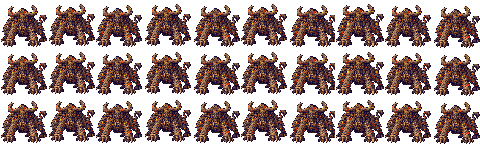
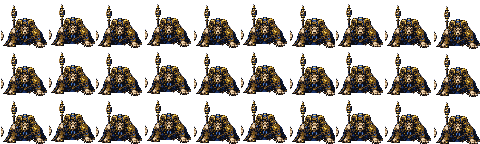
feat: give every boss a distinct combat identity

diff --git a/web/index.html b/web/index.html
@@ -1868,75 +1868,75 @@ const BOSS = [
     前一回合就看得到（telegraph）。後面十六隻頭目全部建立在
     「看預告、決定這一回合要不要站在那裡」上面 ——
     在一隻打不死人的門番身上先教會它，比在第十章教便宜太多。 */
- {id:'b_keeper', nm:'神殿門番',   ai:'C', hp:44,atk:4,def:2,exp:120, spd:.5, sight:6, ev:0, fl:[0,0], w:0, boss:1,
+ {id:'b_keeper', nm:'神殿門番', sig:'seal_slam', ai:'C', hp:44,atk:4,def:2,exp:120, spd:.5, sight:6, ev:0, fl:[0,0], w:0, boss:1, still:1,
   imm:['睡'], telegraph:1, cadence:4, ward:{cd:12, dur:2},
   line:'門上的浮雕動了 —— 它不追你，但它擋在唯一的路上。'},
- {id:'b_warden', nm:'礦坑守衛',   ai:'C', hp:70,atk:6,def:5,exp:200, spd:1,  sight:7, ev:0, fl:[0,0], w:0, boss:1,
+ {id:'b_warden', nm:'礦坑守衛', sig:'ore_brood', ai:'C', hp:70,atk:6,def:5,exp:200, spd:1,  sight:7, ev:0, fl:[0,0], w:0, boss:1,
   imm:['睡','亂'], adds:{n:1, cd:10}, ward:{cd:14, dur:3},
   line:'石頭在呼吸。它醒了 —— 而且不只一塊。'},
- {id:'b_treant', nm:'森之主',     ai:'C', hp:130,atk:11,def:8,exp:400, spd:.5, sight:6, ev:0, fl:[0,0], w:0, boss:1,
+ {id:'b_treant', nm:'森之主', sig:'root_quake', ai:'C', hp:130,atk:11,def:8,exp:400, spd:.5, sight:6, ev:0, fl:[0,0], w:0, boss:1,
   imm:['睡','亂','麻'], adds:{n:2, cd:8}, rage:.45, quake:9,
   line:'霧散開了 —— 那不是樹。而且林子裡不只牠一個。'},
  /* turret 型頭目：普通攻擊傷不了它，要用房間裡的砲座打。
     n=幾座　dmg=每一發打掉最大體力的幾成　cool=打完幾回合才能再用
     投石小魔王排在第三章，是刻意的 —— 這個機制要在玩家還很弱的時候教會，
     到了第十二章的光線人才會知道「原地站著換不到傷害」。 */
- {id:'b_ballista',nm:'投石小魔王',ai:'R', hp:170,atk:12,def:10,exp:600, spd:1,  sight:12,ev:0, fl:[0,0], w:0, boss:1,
+ {id:'b_ballista',nm:'投石小魔王',sig:'stone_battery',ai:'R', hp:170,atk:12,def:10,exp:600, spd:1,  sight:12,ev:0, fl:[0,0], w:0, boss:1,
   rng:9, still:1, telegraph:1, turret:{n:3, dmg:.18, cool:5}, rage:.4, adds:{n:2, cd:10},
   line:'白色的方塊亮起來了 —— 那是射程。石頭傷不了它，但山道上的投石機可以。'},
- {id:'b_pyro',   nm:'火之術士',   ai:'R', hp:190,atk:13,def:11,exp:800, spd:1,  sight:12,ev:6, fl:[0,0], w:0, boss:1,
+ {id:'b_pyro',   nm:'火之術士', sig:'flame_cross', ai:'R', hp:190,atk:13,def:11,exp:800, spd:1,  sight:12,ev:6, fl:[0,0], w:0, boss:1,
   rng:10, cadence:3, telegraph:1, quake:7, adds:{n:2, cd:11, id:'imp'}, rage:.35,
   line:'三回合一次。柱子後面是唯一的答案 —— 但別站在牠腳邊。'},
- {id:'b_lord',   nm:'湖水之主',   ai:'C', hp:210,atk:16,def:12,exp:900, spd:1,  sight:8, ev:4, fl:[0,0], w:0, boss:1,
+ {id:'b_lord',   nm:'湖水之主', sig:'tidal_ram', ai:'C', hp:210,atk:16,def:12,exp:900, spd:1,  sight:8, ev:4, fl:[0,0], w:0, boss:1,
   telegraph:1, cadence:4, charge:1, blink:[9,14], ward:{cd:12, dur:4},
   line:'湖面立起來了 —— 水不會繞路，它直接撞過來。'},
- {id:'b_phoenix', lives:1,nm:'不死鳥',     ai:'C', hp:260,atk:20,def:14,exp:1200,spd:1.5,sight:9, ev:10,fl:[0,0], w:0, boss:1, fly:1,
+ {id:'b_phoenix', lives:1,nm:'不死鳥', sig:'rebirth_nova', ai:'C', hp:260,atk:20,def:14,exp:1200,spd:1.5,sight:9, ev:10,fl:[0,0], w:0, boss:1, fly:1,
   rage:.5, quake:8, ward:{cd:13, dur:3},
   line:'牠燒起來的時候，是在重生 —— 而且會燒到站得太近的人。'},
- {id:'b_hanzo',  nm:'全藏',       ai:'C', hp:290,atk:24,def:15,exp:1500,spd:2,  sight:9, ev:22,fl:[0,0], w:0, boss:1,
+ {id:'b_hanzo',  nm:'全藏', sig:'shadow_swap', ai:'C', hp:290,atk:24,def:15,exp:1500,spd:2,  sight:9, ev:22,fl:[0,0], w:0, boss:1,
   blink:[3,6], rage:.35, adds:{n:1, cd:13},
   /* 本來叫的是影忍 —— 而影忍挨打會分身，於是牠每十三回合叫兩隻、
      兩隻各自再分裂，走通測試在這一章直接卡住四十次。
      召喚要挑「不會自我繁殖」的東西，這是叫援軍這個動詞的隱藏規格。 */
   line:'「看得見我，就贏得了我。」—— 問題是他不會待在同一個地方。'},
- {id:'b_oni',    nm:'鬼武者',     ai:'C', hp:330,atk:26,def:16,exp:1800,spd:1,  sight:8, ev:0, fl:[0,0], w:0, boss:1,
+ {id:'b_oni',    nm:'鬼武者', sig:'iaido_counter', ai:'C', hp:330,atk:26,def:16,exp:1800,spd:1,  sight:8, ev:0, fl:[0,0], w:0, boss:1,
   counter:.35, telegraph:1, cadence:5, charge:1, rage:.4, quake:9,
   line:'牠拔刀的速度比你眨眼快 —— 而且牠會連人帶刀衝過來。'},
- {id:'b_gaoler', nm:'牢獄長',     ai:'C', hp:420,atk:30,def:18,exp:2400,spd:1,  sight:9, ev:0, fl:[0,0], w:0, boss:1,
+ {id:'b_gaoler', nm:'牢獄長', sig:'chain_muster', ai:'C', hp:420,atk:30,def:18,exp:2400,spd:1,  sight:9, ev:0, fl:[0,0], w:0, boss:1,
   imm:['睡','亂','麻'], adds:{n:2, cd:9}, rage:.4, ward:{cd:14, dur:4},
   line:'鑰匙掛在牠腰上 —— 但牠不是一個人在看守。'},
  /* 鏡之女王：整章的規則就是「鏡子」—— 她不走路，她換一面鏡子出現。
     停十到十五回合，然後閃到房間裡的另一個位置；停著的時候固定週期
     預告一條直線再射出去。玩家因此永遠有兩件事要決定：
     這一回合是躲線還是吃傷害往前壓，以及她下次會出現在哪一邊。 */
- {id:'b_queen', lives:2,  nm:'鏡之女王',   ai:'R', hp:200,atk:32,def:18,exp:2600,spd:1,  sight:9, ev:12,fl:[0,0], w:0, boss:1, fly:1,
+ {id:'b_queen', lives:2, nm:'鏡之女王', sig:'mirror_trinity', ai:'R', hp:200,atk:32,def:18,exp:2600,spd:1,  sight:9, ev:12,fl:[0,0], w:0, boss:1, fly:1,
   rng:10, telegraph:1, cadence:2, blink:[4,7], charge:1, unreflect:1, mpburn:12,
   line:'打碎一次，她會再站起來。三次。鏡子裡的東西不會走過來。'},
- {id:'b_prism',  nm:'光線人',     ai:'R', hp:380,atk:34,def:20,exp:3000,spd:1,  sight:14,ev:0, fl:[0,0], w:0, boss:1, fly:1,
+ {id:'b_prism',  nm:'光線人', sig:'prism_battery', ai:'R', hp:380,atk:34,def:20,exp:3000,spd:1,  sight:14,ev:0, fl:[0,0], w:0, boss:1, fly:1,
   rng:12, telegraph:1, cadence:2, turret:{n:4, dmg:.15, cool:6}, rage:.4, adds:{n:2, cd:12, id:'turret'},
   line:'光走直線 —— 所以不要站在直線上。它自己也是光，刀砍不斷光。'},
  /* 副本迷宮的守衛。石匠把自己最後的作品鎖在裡面，順手做了一個看門的。
     它是**解謎型**（刀砍不動，只有砲座打得動）—— 副本的獎勵是全遊戲
     最強的一把劍與一面盾，所以它不能是「數值夠高就打得贏」，
     得是「看懂機關才過得去」。深度 66，數值排在牢獄長與光線人之間。 */
- {id:'b_artisan',nm:'祕匠的守衛', ai:'R', hp:400,atk:32,def:19,exp:3000,spd:1, sight:13,ev:0, fl:[0,0], w:0, boss:1,
+ {id:'b_artisan',nm:'祕匠的守衛', sig:'gear_lock', ai:'R', hp:400,atk:32,def:19,exp:3000,spd:1, sight:13,ev:0, fl:[0,0], w:0, boss:1,
   rng:11, still:1, telegraph:1, cadence:3, turret:{n:4, dmg:.17, cool:5},
-  rage:.4, adds:{n:2, cd:11}, imm:['睡','亂','麻'],
+  rage:.4, adds:{n:2, cd:11}, gearlock:{cd:6,dur:3}, imm:['睡','亂','麻'],
   line:'它不是活的 —— 是石匠留下來的機關。刀砍不斷齒輪，砲座可以。'},
  /* 大廣間的小王。使用者的剖面圖寫的是「橫向打敗小王，找到向上前往
     通天塔入口」—— 所以這一場是**橫著打**的：它會助跑撞過來（charge），
     而大廣間有的是橫向的空間可以閃。它是整趟往下的最後一戰，
     數值排在光線人（第 13 章）與人魚王后（第 15 章）之間。 */
- {id:'b_hallking',nm:'廣間之王',  ai:'C', hp:450,atk:37,def:21,exp:3500,spd:1,  sight:11,ev:4, fl:[0,0], w:0, boss:1,
+ {id:'b_hallking',nm:'廣間之王', sig:'royal_charge', ai:'C', hp:450,atk:37,def:21,exp:3500,spd:1,  sight:11,ev:4, fl:[0,0], w:0, boss:1,
   imm:['睡','麻'], charge:1, telegraph:1, cadence:4, quake:8, rage:.4, adds:{n:2, cd:11},
   line:'牠坐在廣間的正中央 —— 背後那道光，就是你要去的地方。'},
  /* 人魚王后保留 diva 詠嘆調。她的機制是 mpburn（唱到你忘記咒文），
     而那件事只有在**聽得到她唱**的時候才成立；她不跟其他施術型頭目共曲。 */
- {id:'b_mermaid',nm:'人魚王后',   ai:'R', hp:520,atk:40,def:22,exp:4000,spd:1,  sight:12,ev:8, fl:[0,0], w:0, boss:1,
+ {id:'b_mermaid',nm:'人魚王后', sig:'siren_lament', ai:'R', hp:520,atk:40,def:22,exp:4000,spd:1,  sight:12,ev:8, fl:[0,0], w:0, boss:1,
   rng:9, mpburn:12, quake:8, telegraph:1, cadence:3, ward:{cd:13, dur:4}, adds:{n:2, cd:12},
   bgm:'diva',
   line:'塔頂的歌聲 —— 聽久了，連咒文都會忘記。'},
- {id:'b_gate',   nm:'門之守望',   ai:'C', hp:600,atk:44,def:24,exp:5000,spd:1,  sight:10,ev:0, fl:[0,0], w:0, boss:1,
+ {id:'b_gate',   nm:'門之守望', sig:'portal_crush', ai:'C', hp:600,atk:44,def:24,exp:5000,spd:1,  sight:10,ev:0, fl:[0,0], w:0, boss:1,
   imm:['睡','亂','麻'], quake:6, rage:.35, adds:{n:2, cd:12}, ward:{cd:12, dur:4}, charge:1, telegraph:1, cadence:5,
   line:'最後一道門 —— 它不需要移動，你自己會走過來。'},
 
@@ -1944,13 +1944,13 @@ const BOSS = [
     設計原則：每一型態只考一件事，而且每一件事都有明確的正解。
     難度來自「要同時記得三件事」，不是來自數值。
     型態之間各補滿一次體力與魔力 —— 最終戰卡在補給不足上不有趣。 */
- {id:'b_mind1', mul:{hp:.7, atk:.9, def:.35},  nm:'意識・凝視', ai:'R', hp:300,atk:30,def:8, exp:2000,spd:1,  sight:99,ev:0, fl:[0,0], w:0, boss:1, fly:1,
+ {id:'b_mind1', mul:{hp:.7, atk:.9, def:.35}, nm:'意識・凝視', sig:'gaze_line', ai:'R', hp:300,atk:30,def:8, exp:2000,spd:1,  sight:99,ev:0, fl:[0,0], w:0, boss:1, fly:1,
   mind:1, rng:99, cadence:3, telegraph:1, still:1, imm:['睡','亂','麻'],
   line:'它還沒有形體。只有一隻眼睛，正在看你。'},
- {id:'b_mind2', mul:{hp:.8, atk:1.0, def:.8},  nm:'意識・複寫', ai:'C', hp:340,atk:34,def:14,exp:2600,spd:1,  sight:99,ev:0, fl:[0,0], w:0, boss:1,
+ {id:'b_mind2', mul:{hp:.8, atk:1.0, def:.8}, nm:'意識・複寫', sig:'mimic_echo', ai:'C', hp:340,atk:34,def:14,exp:2600,spd:1,  sight:99,ev:0, fl:[0,0], w:0, boss:1,
   mind:2, imm:['睡','亂','麻'],
   line:'三個你。只有一個不會跟著你動。'},
- {id:'b_mind', mul:{hp:1.3, atk:1.2, def:1.6},   nm:'意識・歸一', ai:'C', hp:520,atk:40,def:26,exp:9999,spd:1,  sight:99,ev:0, fl:[0,0], w:0, boss:1,
+ {id:'b_mind', mul:{hp:1.3, atk:1.2, def:1.6}, nm:'意識・歸一', sig:'collapse_opening', ai:'C', hp:520,atk:40,def:26,exp:9999,spd:1,  sight:99,ev:0, fl:[0,0], w:0, boss:1,
   mind:3, opening:1, imm:['睡','亂','麻'],
  line:'它終於站起來了。每揮一次刀，它都會露出破綻。'},
 ];
@@ -2604,6 +2604,7 @@ s.rage|{v0} roars — it is serious now.|{v0} が ほえた —— ほんきに 
 s.ward|{v0} raises a ward — nothing can hurt it for {n} turns.|{v0} が ひかりの まくを はった —— {n}ターン むきず。
 s.warded|{v0} is wrapped in light — it cannot be hurt right now.|{v0} は ひかりに つつまれている —— いまは きずつけられない。
 s.adds|{v0} calls in {n} helpers.|{v0} が なかまを {n} たい よんだ。
+s.gearlock|The artisan's blue gear beam seizes a ballista — move to another firing point!|しょくにんの あおい はぐるまこうせんが とうせきだいを ふうじた —— べつの だいへ！
 s.quakew|The ground under {v0} starts to shake — get away from it!|{v0} の あしもとが ゆれはじめた —— はなれろ！
 s.quake|The ground bursts — you are thrown back for {n} damage.|じめんが はじけた —— ふきとばされて {n} ダメージ。
 s.quakemiss|The ground shakes — you are far enough away.|じめんが ゆれた —— じゅうぶん はなれていた。
@@ -3570,6 +3571,11 @@ const ART_DIR = 'art/';
    留這個鉤子，就能同時擁有兩種形態：
    網站上一張一張載（方便一批一批換），要散佈時打包成一個檔。 */
 let ART_DATA = null;
+/* 外部美術的快取版本。GitHub Pages／手機瀏覽器會保留同名 PNG；若只替換
+   圖檔而 URL 不變，玩家可能幾天都還看見舊頭目。每次正式換一批美術只需
+   改這一個值，所有逐張載入的圖與動畫就會取得同一版。ART_DATA 是內嵌
+   data URL，不需要也不能附 query。 */
+const ART_REV = '20260823-babylon-boss-v2';
 const ART_MON = ['rat', 'slime', 'goblin', 'skeleton',
                  'shroom', 'imp', 'grub', 'wolf', 'mage', 'golem',
                  'turret', 'knight', 'wasp', 'dryad', 'mossy', 'moth',
@@ -3583,8 +3589,9 @@ const ART_MON = ['rat', 'slime', 'goblin', 'skeleton',
 const ART_BOSS = ['b_warden', 'b_treant', 'b_ballista', 'b_pyro', 'b_lord',
                   'b_phoenix', 'b_hanzo', 'b_oni', 'b_gaoler', 'b_queen',
                   'b_prism', 'b_mermaid', 'b_gate', 'b_mind1', 'b_mind',
-                  'b_keeper', 'b_artisan', 'b_hallking', 'b_mind2'];
+                  'b_keeper', 'b_artisan', 'b_hallking'];
 const ownArt = {};
+let qaGalleryRedrawT = 0;
 /* 載一張外部圖，成功了才呼叫 ok(canvas)。載不到什麼都不做 ——
    「還沒畫到」不是錯誤，是這條遷移管線的正常狀態。
 
@@ -3603,7 +3610,8 @@ function artImage(id, url, ok){
     ok(c);
   };
   im.onerror = () => {};                       // 還沒畫到 —— 不是錯誤
-  im.src = (ART_DATA && ART_DATA[id]) || url;
+  const embedded = ART_DATA && ART_DATA[id];
+  im.src = embedded || (url + (url.includes('?') ? '&' : '?') + 'v=' + ART_REV);
 }
 
 /* ─── 可選的逐格動畫圖集 ──────────────────────────────────────
@@ -3630,7 +3638,7 @@ const ART_ANIM_AVAILABLE = {
     'b_warden','b_treant','b_ballista','b_pyro','b_lord',
     'b_phoenix','b_hanzo','b_oni','b_gaoler','b_queen',
     'b_prism','b_mermaid','b_gate','b_mind1','b_mind',
-    'b_keeper','b_artisan','b_hallking','b_mind2'
+    'b_keeper','b_artisan','b_hallking'
   ]
 };
 const ANIM_ART = {}, animLoadTried = new Set(), animCellCache = {};
@@ -3704,6 +3712,16 @@ function adoptArt(id, url, own){
     for(const b in BOSS_BASE) if(BOSS_BASE[b] === id && !ownArt[b]){
       delete flashCache[b]; delete charLiftCache[b]; delete footCache[b];
       atlas[b] = crownSprite(id);
+    }
+    /* 驗收畫廊把 atlas 拷進自己的 canvas；如果外部 PNG 比畫廊晚載完，
+       不重畫就會一直顯示載入前的程式造型，讓人誤以為新美術沒有套上。 */
+    if(typeof location !== 'undefined' &&
+       new URLSearchParams(location.search).get('qa') === 'gallery'){
+      clearTimeout(qaGalleryRedrawT);
+      qaGalleryRedrawT = setTimeout(() => {
+        const tp = new URLSearchParams(location.search).get('type') === 'boss' ? 'boss' : 'mon';
+        qaGallery(tp);
+      }, 80);
     }
   });
 }
@@ -9636,6 +9654,15 @@ function decide(m){
             {v0:(locName('mon', m.d)), n:m.ward}),'bad');
     }
   }
+  /* 祕匠守衛的專屬招：封住一座目前能用的砲座，逼玩家真的在四座機關間
+     換位，而不是找到最近的一座原地連按。只有它會改變場上砲座的狀態。 */
+  if(m.d.gearlock && G.seen[key(m.x,m.y)] === 2 && G.f.turrets){
+    m.gearCd = (m.gearCd === undefined) ? m.d.gearlock.cd : m.gearCd - 1;
+    if(m.gearCd <= 0 && G.f.turrets.some(t=>!t.cd)){
+      m.gearCd = m.d.gearlock.cd;
+      return {k:'gearlock'};
+    }
+  }
   if(m.d.adds && G.seen[key(m.x,m.y)] === 2){
     m.addCd = (m.addCd === undefined) ? m.d.adds.cd : m.addCd - 1;
     if(m.addCd <= 0 && G.mons.length < 12){ m.addCd = m.d.adds.cd; return {k:'adds'}; }
@@ -10088,6 +10115,20 @@ function act(m,it){
       SFX.play('read');
       say(M('s.adds','{v0} 叫來了 {n} 個幫手。',{v0:(locName('mon', m.d)), n:born}),'bad');
     }
+    return;
+  }
+  if(it.k==='gearlock'){
+    const ready=(G.f.turrets||[]).filter(t=>!t.cd);
+    if(!ready.length) return;
+    // 優先鎖離玩家最近的那座：玩家剛跑到的機關最可能被盯上，規則才讀得出來。
+    ready.sort((a,b)=>Math.max(Math.abs(a.x-p.x),Math.abs(a.y-p.y))-
+                       Math.max(Math.abs(b.x-p.x),Math.abs(b.y-p.y)));
+    const t=ready[0]; t.cd=Math.max(t.cd||0,m.d.gearlock.dur);
+    wave(t.x,t.y,'#4a86cf',.72); ring(t.x,t.y,'#7cb8ea',30,.50);
+    trail(m.x,m.y,Math.sign(t.x-m.x),Math.sign(t.y-m.y),
+          Math.max(Math.abs(t.x-m.x),Math.abs(t.y-m.y)),'#7cb8ea');
+    SFX.play('curse');
+    say(TX('s.gearlock','祕匠的藍色齒輪光束鎖住了一座砲台 —— 換到另一座！'),'bad');
     return;
   }
   if(it.k==='quake'){

diff --git a/web/items.js b/web/items.js
@@ -682,7 +682,7 @@ t('打倒頭目一定掉一件裝備，而且不會超出這一層的分級', ()
    無條件去讀 blink[0]，一衝出去就整場當掉（msgs.js 抓到的）。 */
 t('每一章的頭目各有自己的招，而且每一隻都跑得起來', ()=>{
   const VERBS = ['telegraph','blink','charge','mpburn','quake','adds','rage',
-                 'ward','counter','lives','turret','mind'];
+                 'ward','counter','lives','turret','gearlock','mind'];
   const thin = [];
   for(const d of api.BOSS){
     const has = VERBS.filter(v => d[v]);
@@ -694,6 +694,23 @@ t('每一章的頭目各有自己的招，而且每一隻都跑得起來', ()=>{
   const used = new Set();
   for(const d of api.BOSS) for(const v of VERBS) if(d[v]) used.add(v);
   assert(used.size >= 8, '整套只用到 ' + used.size + ' 種招：' + [...used].join('/'));
+
+  // 名稱不算獨特，玩家實際需要的應對組合才算。adds 會召什麼、mind 是哪一型
+  // 都寫進指紋；兩隻王若指紋相同，就代表只是換血量與外觀，直接判失敗。
+  const kits = new Map();
+  for(const d of api.BOSS){
+    assert(d.sig, d.nm + ' 沒有專屬招式名稱');
+    const moves = VERBS.filter(v=>d[v]).map(v=>{
+      if(v==='mind') return 'mind:' + d.mind;
+      if(v==='adds') return 'adds:' + (d.adds.id || 'roster');
+      return v;
+    }).sort();
+    const fp=moves.join('/');
+    if(kits.has(fp)) throw new Error(d.nm + ' 與 ' + kits.get(fp) + ' 的應對方法完全相同：' + fp);
+    kits.set(fp,d.nm);
+  }
+  assert.strictEqual(new Set(api.BOSS.map(d=>d.sig)).size, api.BOSS.length,
+    '專屬招式名稱有重複');
 
   // 每一隻實際跑三十回合，確認不會爆
   for(let a = 0; a < api.ACTS.length; a++){

diff --git a/web/opening.js b/web/opening.js
@@ -22,7 +22,7 @@ function pngSize(file){
 const bossIds = [
   'b_keeper','b_warden','b_treant','b_ballista','b_pyro','b_lord',
   'b_phoenix','b_hanzo','b_oni','b_gaoler','b_queen','b_prism',
-  'b_artisan','b_hallking','b_mermaid','b_gate','b_mind1','b_mind2','b_mind'
+  'b_artisan','b_hallking','b_mermaid','b_gate','b_mind1','b_mind'
 ];
 
 ok(/TRACKS\.title\s*=\s*T_\(\{\s*bpm:112/.test(html), 'original title theme is registered at 112 BPM');
@@ -53,5 +53,9 @@ for(const id of bossIds){
   ok(b.width === 480 && b.height === 144, `${id} animation sheet is 10x3 cells`);
   ok(html.includes(`'${id}'`), `${id} is registered in the runtime`);
 }
+
+ok(/m\.d\.mind\s*===\s*2\s*\?\s*heroAnimNow/.test(html), 'Mind Echo reuses the current animated hero by design');
+ok(!fs.existsSync(path.join(ROOT, 'art', 'boss', 'b_mind2.png')), 'Mind Echo has no dedicated still that could break the mimic puzzle');
+ok(!fs.existsSync(path.join(ROOT, 'art', 'anim', 'boss', 'b_mind2.png')), 'Mind Echo has no dedicated animation that could break the mimic puzzle');
 
 console.log(`\nOpening/boss release checks: ${pass} passed, 0 failed.`);

diff --git a/tools/check_art.py b/tools/check_art.py
@@ -258,6 +258,7 @@ else:
             parts = rel.replace("\\", "/").split("/")
             is_anim = parts[0] == "anim"
             cat = parts[1] if is_anim and len(parts) > 1 else parts[0]
+            is_scene = cat in ("promo", "village", "map")
             im = Image.open(os.path.join(dirpath, name)).convert("RGBA")
             px = list(im.getdata())
             cols = {p[:3] for p in px if p[3] > 0}
@@ -285,8 +286,15 @@ else:
             # 用怪物的下限去要求，只會逼出一頂佔滿整格、把臉蓋掉的帽子。
             lo = (0.06 if cat in ("item", "hat", "weapon", "shield")
                   else 0.10 if is_anim else 0.15)
-            ok(lo <= frac <= 0.92,
-               "%s 剪影佔比合理（%.0f%%，下限 %.0f%%）" % (rel, frac * 100, lo * 100))
+            if is_scene:
+                # Full-frame village paintings, posters and journey maps are not
+                # sprites. Their job is to fill the canvas; treating that as an
+                # unremoved background made every deliberate panorama fail.
+                ok(frac >= 0.92,
+                   "%s 全景覆蓋畫面（%.0f%%，下限 92%%）" % (rel, frac * 100))
+            else:
+                ok(lo <= frac <= 0.92,
+                   "%s 剪影佔比合理（%.0f%%，下限 %.0f%%）" % (rel, frac * 100, lo * 100))
             # 主體必須碰到方框的最底下那一列。
             #
             # 轉檔工具如果把主體在方框裡上下置中，趴著的洞穴鼠就會在

diff --git a/tools/pixelize.py b/tools/pixelize.py
@@ -94,6 +94,11 @@ def palette_hex_for(rel):
     parts = rel.replace("\\", "/").split("/")
     # 動畫圖集多包一層 anim/<類別>/；主角身體仍只能使用可換色的五色。
     cat = parts[1] if len(parts) > 1 and parts[0] == "anim" else parts[0]
+    # Bosses use the same expanded material palette in stills and animation.
+    # Their 48px silhouettes are allowed 8–14 colors, including purple magic,
+    # pale metal and cyan crystal that the 32-color minion palette cannot hold.
+    if cat == "boss":
+        return ANIM_PALETTE_HEX
     if parts[0] == "anim" and cat != "hero":
         return ANIM_PALETTE_HEX
     return PALETTES.get(cat, PALETTE_HEX)

diff --git a/docs/boss_combat_roster.md b/docs/boss_combat_roster.md
@@ -1,0 +1,27 @@
+# 頭目專屬攻擊與特技表
+
+這份表是頭目戰的不可退化規格。所有頭目共用「深層頭目每第四次近戰會預告重擊並震飛」的基礎語彙；表內列的是每隻額外擁有、且彼此不重複的戰鬥組合。
+
+| 頭目 | 專屬招式 | 實際戰鬥機制 | 玩家應對 |
+|---|---|---|---|
+| 神殿門番 | 封印砸擊 `seal_slam` | 鎮守原地、四拍預告直線攻擊、受傷後短暫開盾 | 看預告離線；護罩期間換位或回復 |
+| 礦坑守衛 | 礦脈孳生 `ore_brood` | 定期喚醒一隻礦怪並開石光護罩 | 先清援軍，護罩消失再集中攻擊 |
+| 森之主 | 根脈地震 `root_quake` | 召喚兩隻林怪、近身震地、低血狂暴 | 離開三格震區，避免被樹群包圍 |
+| 投石小魔王 | 岩彈陣地 `stone_battery` | 刀砍無效；三座投石台輪流輸出，並召喚援軍 | 在三座砲台間換位，不可原地硬砍 |
+| 火之術士 | 炎十字 `flame_cross` | 三回合預告直線火術、震地並召喚投石妖精 | 以柱子斷線，且不可貼身久留 |
+| 湖水之主 | 潮汐衝城 `tidal_ram` | 預告後沿直線衝撞、把人推向牆，並會換水面位置 | 側移離線，不要背貼牆 |
+| 不死鳥 | 涅槃火環 `rebirth_nova` | 死後重生一次；低血狂暴、近身爆焰震地與火罩 | 保留資源打第二條命，爆焰前拉開 |
+| 全藏 | 影換 `shadow_swap` | 高速瞬身、召喚影援軍、低血狂暴 | 記住本體落點，先消掉干擾者 |
+| 鬼武者 | 居合返 `iaido_counter` | 受擊反擊、預告居合衝撞、震地與狂暴 | 不連續貪刀；看刀光側移 |
+| 牢獄長 | 鎖鏈點兵 `chain_muster` | 定期召兩名獄卒、狂暴並張開重甲護罩 | 控制援軍數量，護罩期整理站位 |
+| 鏡之女王 | 三鏡輪迴 `mirror_trinity` | 三條命、鏡間瞬移、衝撞、遠程不可反射並撕走一半 MP | 預判鏡位、離開射線，分段保存 MP |
+| 光線人 | 稜鏡砲列 `prism_battery` | 刀砍無效；四砲座解謎、兩拍光線並召喚水晶砲台 | 用掩體斷光，輪轉四座砲台 |
+| 祕匠的守衛 | 齒輪封砲 `gear_lock` | 刀砍無效；藍色齒輪光束會鎖住離玩家最近的可用砲台 | 在四座砲台間持續轉移，不能守一座連按 |
+| 廣間之王 | 王獸橫衝 `royal_charge` | 長距離衝撞、震地、召喚援軍與低血狂暴 | 利用廣間橫向空間側移，離開震區 |
+| 人魚王后 | 海妖哀歌 `siren_lament` | 遠程歌聲撕走一半 MP、震地、召喚水怪並開水幕 | 控制施法節奏，拉開震地範圍 |
+| 門之守望 | 門界壓碎 `portal_crush` | 巨型門軀衝撞、頻繁震地、召喚、護罩與狂暴 | 先處理援軍，依預告在門柱間換邊 |
+| 意識・凝視 | 凝視線 `gaze_line` | 不移動；每三回合掃過整行或整列 | 躲到柱後切斷視線 |
+| 意識・複寫 | 模仿回聲 `mimic_echo` | 三個主角外形；兩個分身會複製玩家位移，本體不動 | 先走一步觀察，攻擊唯一沒跟著動的那個 |
+| 意識・歸一 | 崩界破綻 `collapse_opening` | 每次出手後露出一回合破綻；半血後外圈逐步崩落 | 利用破綻反擊，戰場縮小前往核心靠攏 |
+
+自動測試會檢查：19 個 `sig` 不重複、實際機制組合不重複、每隻至少有兩項戰鬥語彙（意識三型態採各自的解謎狀態機），並讓每隻實際運行 30 回合確認不會在特技觸發時出錯。
